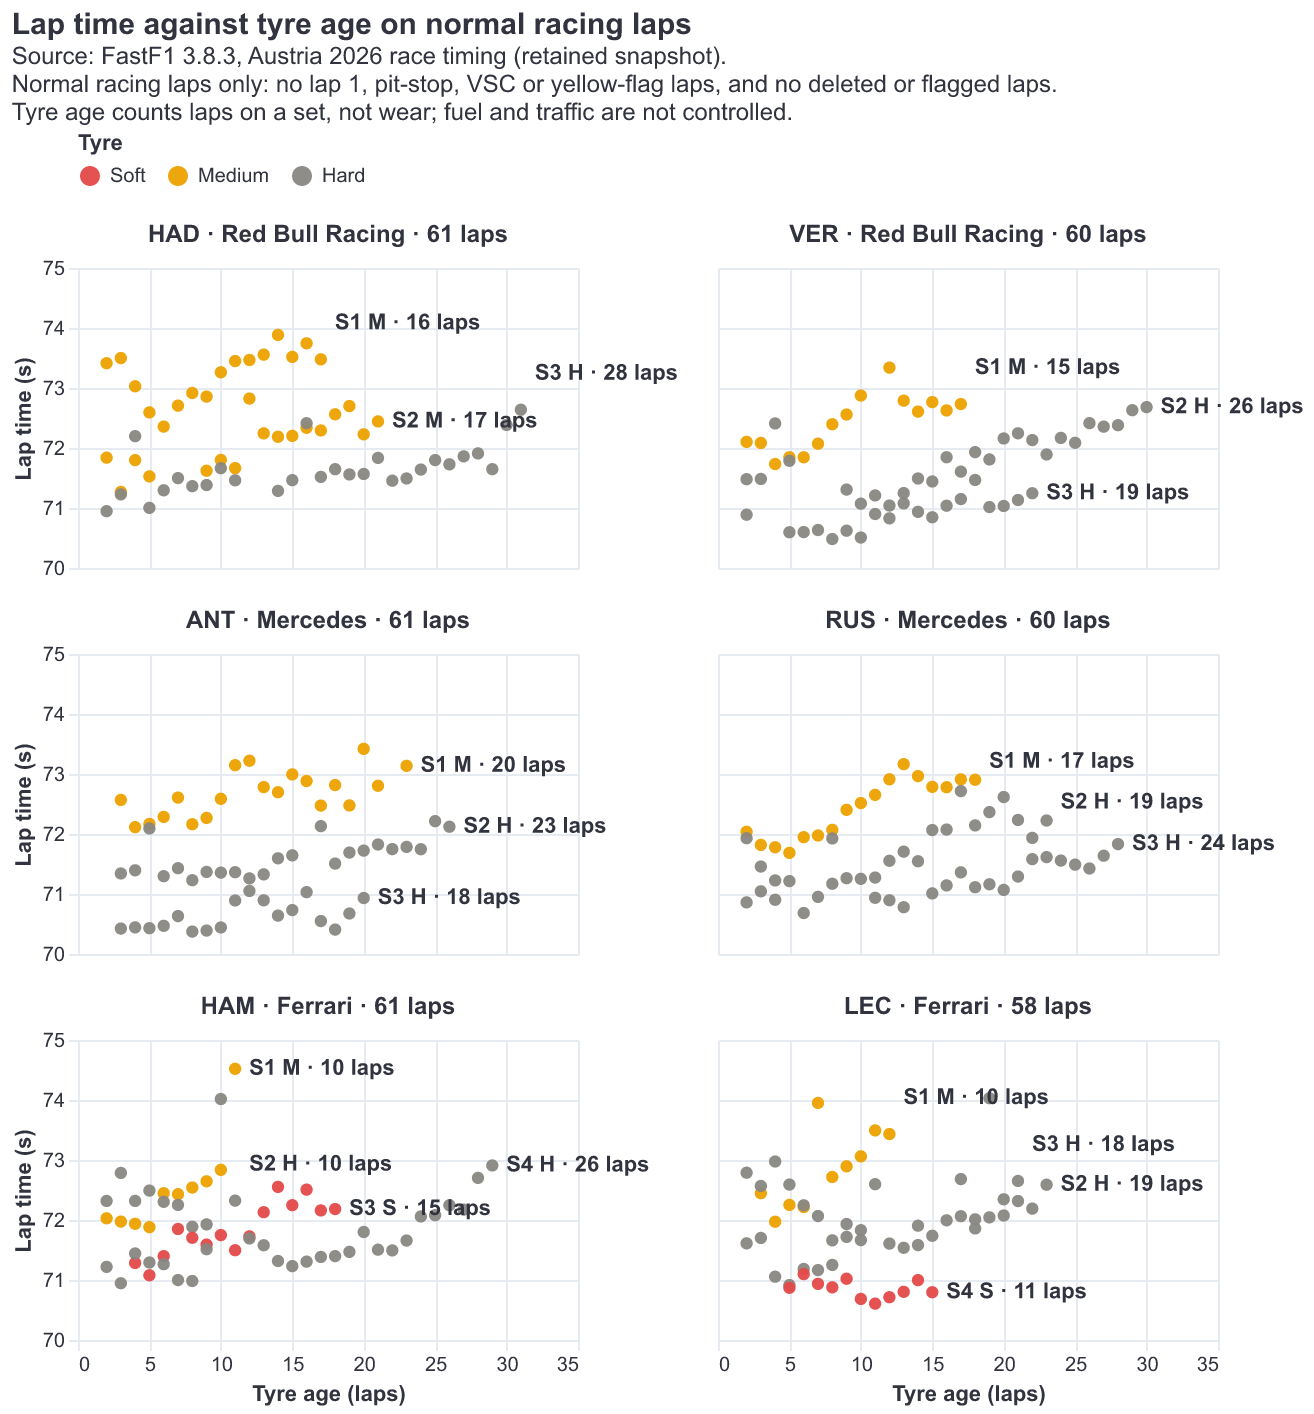
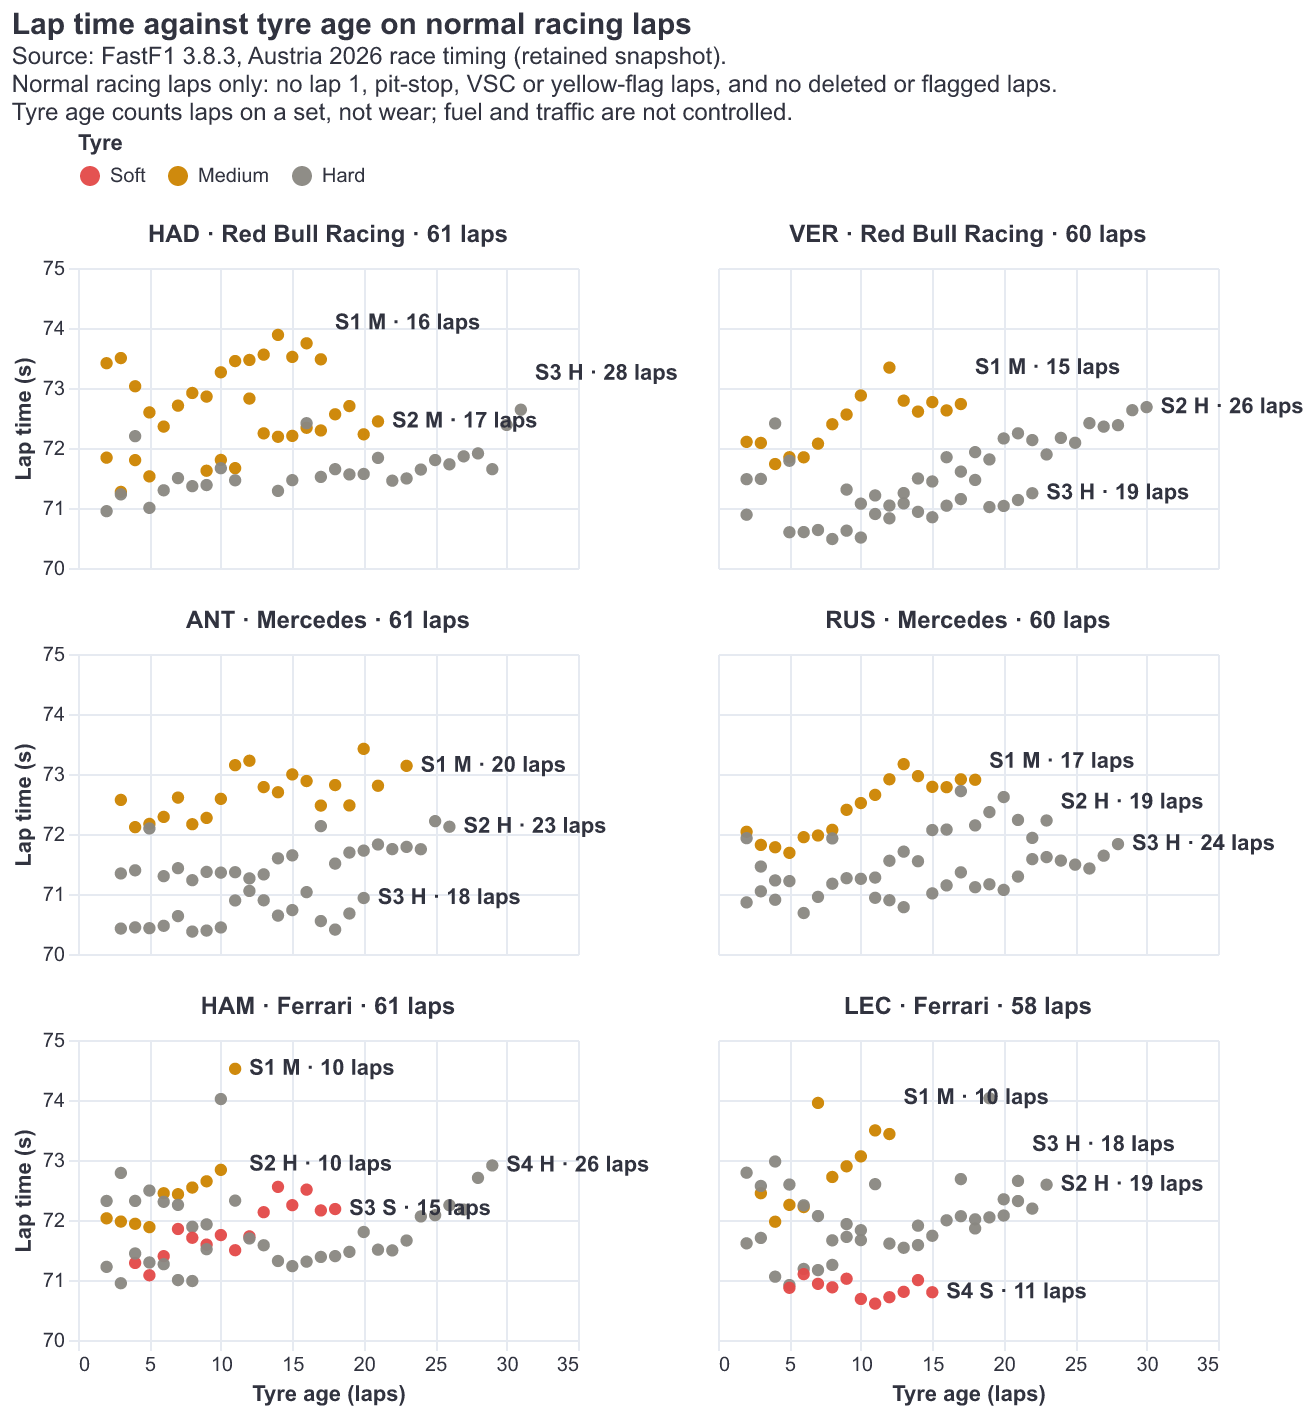
Fix contrast for all chart colours and expose the page title as a heading
- Darken Medium amber and the light-mode green so every mark meets 3:1; test all colours without allowance
- Remove the image role that hid the page H1; keep heading levels in order
- Update the usability record

diff --git a/app/story.py b/app/story.py
@@ -95,7 +95,7 @@ def overview_slide() -> None:
     st.caption('Each bar is one stint, starting with its tyre: S (Soft), M (Medium) or H (Hard). '
                'Gaps between bars are pit stops, grey bands are Virtual Safety Car laps and the stripe shows the team. '
                'Stint length is observed use, not tyre wear.')
-    st.markdown('##### Strategy by driver')
+    st.markdown('#### Strategy by driver')
     st.dataframe(strategy_table(laps, stints), hide_index=True, width='stretch')
 
 
@@ -165,7 +165,7 @@ def tyre_slide() -> None:
     st.iframe(replay.html(laps, 'tyres', mode, 190*panel_rows+90), height=190*panel_rows+100, alt=replay.ARIA['tyres'])
     st.caption('Each dot is one normal racing lap, coloured by tyre and labelled with its stint and lap count. '
                'Lines are not drawn across the laps that are left out. Sparse stints may not support a trend.')
-    st.markdown('##### Recorded stints and eligible observations')
+    st.markdown('#### Recorded stints and eligible observations')
     context = charts.stint_context(laps).rename(columns={
         'Stint': 'Stint number', 'FirstLap': 'First race lap', 'LastLap': 'Last race lap',
         'RecordedLaps': 'Recorded laps', 'EligibleLaps': 'Eligible laps',
@@ -203,7 +203,7 @@ def pit_slide() -> None:
     st.caption('Each bar is one pit-lane visit, from entering to leaving, placed on the recorded session clock against the phases of '
                'each VSC. A visit within 1 second of a VSC edge is called too close to call: that rule is a caution, not a measured '
                'accuracy. The bar is the whole trip through the pit lane, not the time the car stood still or the time lost.')
-    st.markdown('##### Pit visits and the VSC clock')
+    st.markdown('#### Pit visits and the VSC clock')
     st.dataframe(pit_clock_table(visits_clock, laps.drop_duplicates('Driver').set_index('Driver').Team),
                  hide_index=True, width='stretch')
 

diff --git a/tests/test_story_app.py b/tests/test_story_app.py
@@ -45,8 +45,14 @@ class StoryAppTests(unittest.TestCase):
         self.assertEqual(len(self.app.header), 1)
         banner = next(h.proto.body for h in self.app.get('html') if 'f1-hero' in h.proto.body)
         self.assertIn('<h1>', banner)
+        self.assertNotIn('role="img"', banner)   # An image role would hide the heading from heading navigation.
         guide = next(h.proto.body for h in self.app.get('html') if 'f1-takeaway' in h.proto.body)
         self.assertIn('<h3>How to read this</h3>', guide)
+
+    def test_headings_never_skip_a_level(self):
+        for slide in range(6):   # Page H1, slide H2, guide H3, then at most H4 inside a slide.
+            self.go_to(slide)
+            self.assertFalse([m.value for m in self.app.markdown if m.value.startswith('#####')], slide)
 
     def test_arrows_wrap_around(self):
         self.app.button(key='previous').click().run()

diff --git a/app/charts.py b/app/charts.py
@@ -9,11 +9,11 @@ import pandas as pd
 
 TEAMS = ['Red Bull Racing', 'Mercedes', 'Ferrari']
 # Validated categorical slots (blue, aqua, orange) chosen to echo each team's livery.
-TEAM_COLORS = {'light': ['#2a78d6', '#1baf7a', '#eb6834'], 'dark': ['#3987e5', '#199e70', '#d95926']}
+TEAM_COLORS = {'light': ['#2a78d6', '#199e70', '#eb6834'], 'dark': ['#3987e5', '#199e70', '#d95926']}
 # F1 convention (red, yellow, white) stepped to stay readable; Hard is a neutral grey on purpose,
 # so every tyre mark also carries its S/M/H letter.
 COMPOUNDS = ['SOFT', 'MEDIUM', 'HARD']
-COMPOUND_COLORS = ['#e34948', '#eda100', '#898781']
+COMPOUND_COLORS = ['#e34948', '#cc8400', '#898781']
 VSC_FILL = '#898781'
 STATUS_COLUMNS = {'TrackStatus': str, 'EntryTrackStatus': str, 'ExitTrackStatus': str}
 SURFACE = {'light': '#ffffff', 'dark': '#15151e'}

diff --git a/app/theme.py b/app/theme.py
@@ -155,7 +155,7 @@ def hero(kicker: str, title: str, subtitle: str) -> str:
                     for top, width, delay in [(22, 40, 0), (48, 55, .35), (70, 35, .7), (86, 50, .2)])
     dust = ''.join(f'<span style="--d:{LIGHTS_OUT+delay}s;left:{left}px"></span>'
                    for left, delay in [(40, 0), (70, .08), (20, .16)])
-    return (f'<div class="f1-hero" role="img" aria-label="{escape(title)}">'
+    return (f'<div class="f1-hero">'
             f'<div class="lights" aria-hidden="true">{lights}</div>'
             f'<div class="kicker">{escape(kicker)}</div><h1>{escape(title)}</h1><div class="sub">{escape(subtitle)}</div>'
             f'<div class="speed" aria-hidden="true">{speed}</div><div class="dust" aria-hidden="true">{dust}</div>'

diff --git a/tests/test_accessibility.py b/tests/test_accessibility.py
@@ -46,9 +46,9 @@ class ContrastTests(unittest.TestCase):
 
     def test_chart_marks_meet_3_to_1_on_both_surfaces(self):
         for mode in ('dark', 'light'):
-            for colour in charts.TEAM_COLORS[mode]+[charts.COMPOUND_COLORS[0], charts.COMPOUND_COLORS[2]]:
+            for colour in charts.TEAM_COLORS[mode]+charts.COMPOUND_COLORS:   # Every team colour and all three tyre colours.
                 with self.subTest(mode=mode, colour=colour):
-                    self.assertGreaterEqual(contrast(colour, charts.SURFACE[mode]), 2.8 if mode == 'light' else 3)
+                    self.assertGreaterEqual(contrast(colour, charts.SURFACE[mode]), 3)
 
 
 @unittest.skipUnless(shutil.which('node'), 'needs Node.js to run the replay script')

diff --git a/docs/usability-check/README.md b/docs/usability-check/README.md
@@ -19,10 +19,10 @@ Technical checks only. They do not replace the audience sessions in #8.
 | Narrow screens | Tyre panels switch to one column; pit-clock, event and tyre labels wrap or flip instead of running off the edge |
 | Keyboard | Arrow buttons are reachable with Tab and work with Enter; named "Previous chart" and "Next chart" |
 | Visible focus | 3 px white outline on buttons and controls |
-| Reading order and headings | H1 page title, H2 chart question, H3 guide boxes and sections |
+| Reading order and headings | Browser accessibility tree checked: H1 page title first, then H2 chart question, H3 guide boxes and sections, H4 table titles; no level skipped. The earlier banner image role that hid the H1 was removed |
 | Screen readers | Every chart frame has a text description; page language is set |
 | Colour is not the only cue | Team-mates use circle/triangle or solid/dashed; tyres carry S/M/H letters; pit visits carry text badges; VSC laps carry rings and labels |
-| Contrast | Small text at least 4.5:1 and chart marks at least 3:1 on both surfaces (automated test) |
+| Contrast | Small text at least 4.5:1; every team colour and all three tyre colours at least 3:1 on both the dark and white surfaces (automated test, no allowance). Medium (amber) was 2.17:1 on white and the light-mode Mercedes green 2.82:1, so both were darkened (Medium `#cc8400`, light green `#199e70`) |
 | Reduced motion | No running animations; charts are drawn at once with full information |
 | Static exports | All six PNGs re-exported with source, filtering and unit notes under each title; values match the dashboard (same data and chart code) |
 
